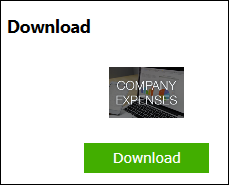
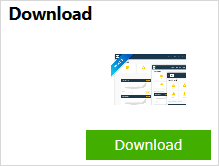
Fix company expenses mention in mx7

Changed region(s): [[0.0, 0.0, 1.0, 1.0], [0.4658, 0.3012, 0.8493, 0.6627], [0.4932, 0.8133, 0.8493, 0.9036]]

diff --git a/content/howto7/mobile/deploy-your-first-hybrid-mobile-app.md b/content/howto7/mobile/deploy-your-first-hybrid-mobile-app.md
@@ -29,7 +29,7 @@ To open a hybrid example app, follow these steps:
 
     ![](attachments/18448692/icon.png)
 
-2. Search for the **Company Expenses** app and click **Download**:
+2. Search for the **Asset Manager** app and click **Download**:
 
     ![](attachments/18448692/18581187.png)
 
@@ -37,7 +37,7 @@ To open a hybrid example app, follow these steps:
 
     ![](attachments/18448692/18581186.png) 
 
-    The Modeler will notify you as soon as the application is deployed.
+    The Modeler will notify you as soon as the application is deployed. While you wait, go to **Navigation**, click the **Hybrid phone app online** tab, and make sure your **Default home page** is set to **MyFirstModule.Dashboard**.
 4. Click the small arrow to open the **View App** menu and select **View Hybrid Mobile App**:
 
     ![](attachments/18448692/18581185.png) 
